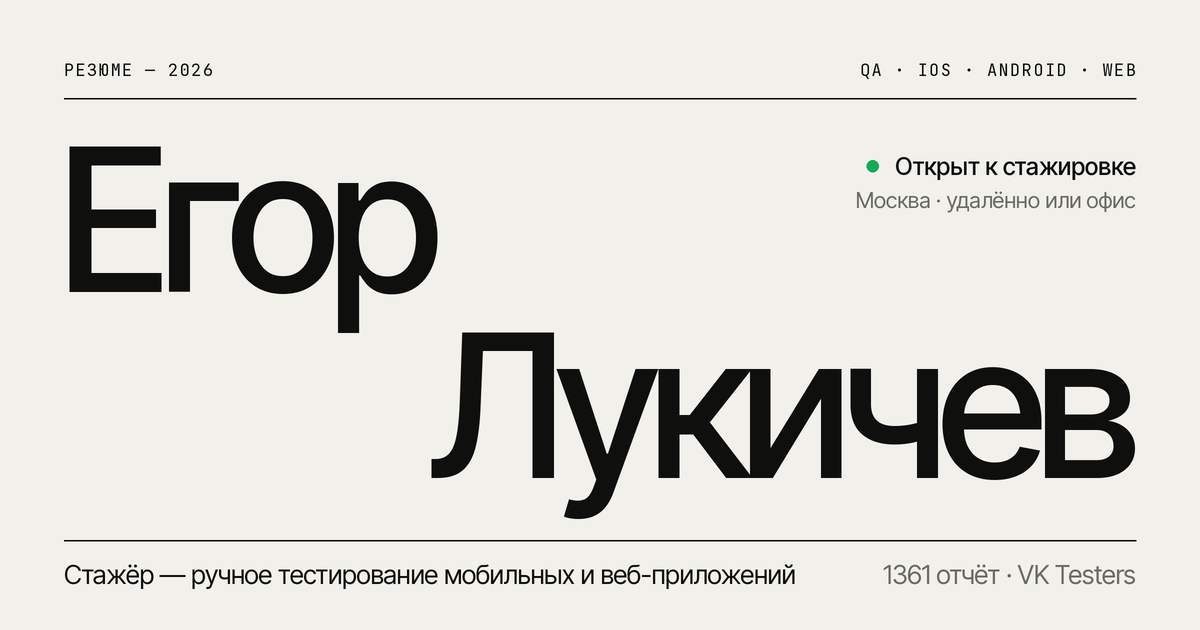
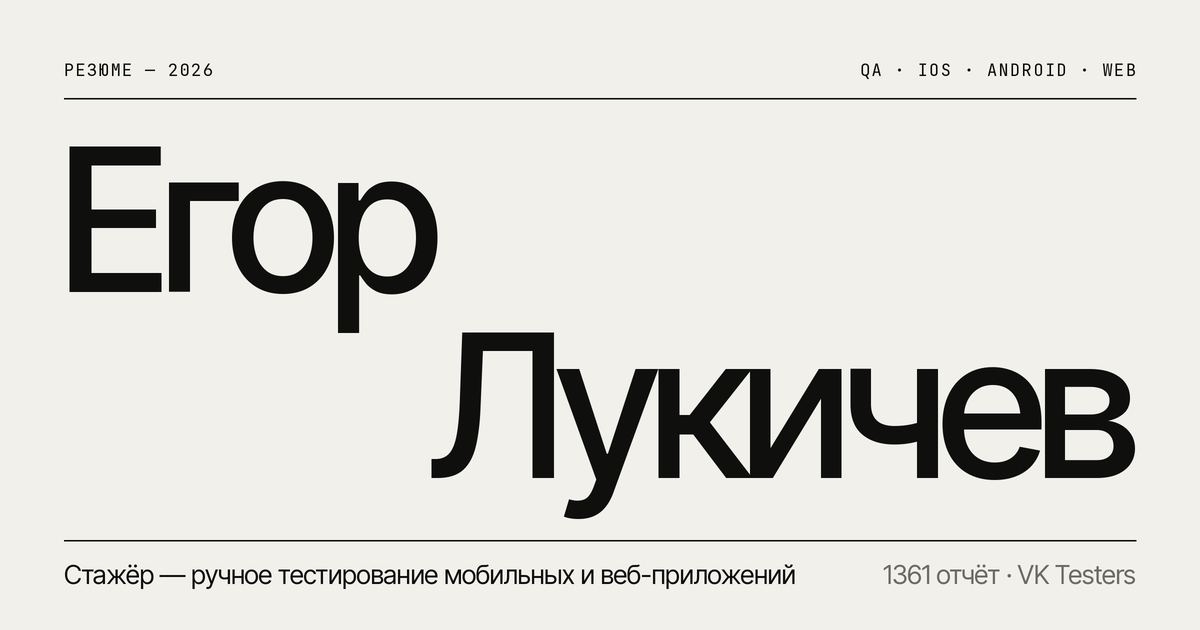
Ч/б-версия: чёрный акцент вместо синего, без блока «Открыт к стажировке»
Синий акцент заменён на чёрный на всём сайте, в игре, иконках и превью.
Блок статуса на первом экране убран, город перенесён в контакты.

Changed region(s): [[0.7092, 0.2413, 0.9558, 0.3317]]

diff --git a/assets/css/style.css b/assets/css/style.css
@@ -23,13 +23,13 @@
   --ink: #0f0f0e;
   --muted: #6b6b66;
   --line: rgba(15, 15, 14, 0.14);
-  --accent: #2b44ff;
+  --accent: #0f0f0e; /* ч/б: акцент — чёрный */
 
   --dark: #0f0f0e;
   --dark-text: #f1f0eb;
   --dark-muted: #8f8e88;
   --dark-line: rgba(241, 240, 235, 0.16);
-  --dark-accent: #6a7bff;
+  --dark-accent: #f1f0eb;
 
   --font: "Inter Tight", "Helvetica Neue", Helvetica, Arial, system-ui, sans-serif;
   --mono: "JetBrains Mono", ui-monospace, "SF Mono", Menlo, Consolas, monospace;
@@ -126,7 +126,7 @@ button { font: inherit; color: inherit; }
 .btn:hover { background: var(--ink); color: var(--bg); }
 
 .btn--primary { background: var(--ink); color: var(--bg); }
-.btn--primary:hover { background: var(--accent); border-color: var(--accent); color: #fff; }
+.btn--primary:hover { background: transparent; color: var(--ink); }
 
 .btn--small { height: 38px; padding: 0 16px; font-size: 14px; }
 
@@ -232,32 +232,6 @@ button { font: inherit; color: inherit; }
   to { transform: none; }
 }
 
-.hero__status {
-  position: absolute;
-  top: clamp(40px, 7vw, 120px);
-  right: 0;
-  display: flex;
-  flex-direction: column;
-  align-items: flex-end;
-  gap: 6px;
-  font-size: 15px;
-  text-align: right;
-}
-
-.status { display: inline-flex; align-items: center; gap: 10px; font-weight: 500; }
-.status__dot {
-  width: 8px;
-  height: 8px;
-  border-radius: 50%;
-  background: #17a957;
-  animation: pulse 2.2s infinite;
-}
-@keyframes pulse {
-  0% { box-shadow: 0 0 0 0 rgba(23, 169, 87, 0.45); }
-  70% { box-shadow: 0 0 0 10px rgba(23, 169, 87, 0); }
-  100% { box-shadow: 0 0 0 0 rgba(23, 169, 87, 0); }
-}
-
 .hero__bottom {
   display: grid;
   grid-template-columns: minmax(0, 5fr) minmax(0, 4fr) auto;
@@ -284,12 +258,6 @@ button { font: inherit; color: inherit; }
 
 @media (max-width: 640px) {
   .hero__title { font-size: 22.5vw; }
-  .hero__status {
-    position: static;
-    align-items: flex-start;
-    margin-top: 28px;
-    text-align: left;
-  }
   .hero__bottom { grid-template-columns: 1fr; gap: 20px; }
   .hero__cta .btn { flex: 1 1 auto; }
 }
@@ -631,7 +599,7 @@ button { font: inherit; color: inherit; }
   background: var(--dark);
   color: var(--dark-text);
 }
-.contact ::selection { background: var(--dark-accent); color: #fff; }
+.contact ::selection { background: var(--dark-accent); color: var(--dark); }
 
 .contact__head {
   display: grid;
@@ -689,6 +657,7 @@ button { font: inherit; color: inherit; }
   transition: background-size 0.5s var(--ease), color 0.3s;
 }
 .contacts__value:hover { background-size: 100% 1px; color: #fff; }
+.contacts__text { font-size: clamp(20px, 2.2vw, 32px); letter-spacing: -0.025em; }
 .contacts__value::after { content: ""; position: absolute; inset: 0; }
 .contacts__row { position: relative; }
 .contacts__row:hover .contacts__action { color: var(--dark-accent); transform: translate(2px, -2px); }
@@ -717,7 +686,7 @@ button { font: inherit; color: inherit; }
   transition: color 0.3s, border-color 0.3s, background-color 0.3s;
 }
 .copy:hover { color: var(--dark-text); border-color: var(--dark-text); }
-.copy.is-done { color: #fff; border-color: var(--dark-accent); background: var(--dark-accent); }
+.copy.is-done { color: var(--dark); border-color: var(--dark-accent); background: var(--dark-accent); }
 
 @media (max-width: 760px) {
   .contact__head { grid-template-columns: auto 1fr; }
@@ -738,7 +707,7 @@ button { font: inherit; color: inherit; }
   font-size: 13px;
 }
 .footer a { color: var(--dark-text); transition: color 0.3s; }
-.footer a:hover { color: var(--dark-accent); }
+.footer a:hover { color: var(--dark-muted); }
 
 /* ---------- Reveal on scroll ---------- */
 
@@ -752,5 +721,4 @@ button { font: inherit; color: inherit; }
 
 @media (prefers-reduced-motion: reduce) {
   .js [data-reveal] { opacity: 1; transform: none; transition: none; }
-  .status__dot { animation: none; }
 }

diff --git a/index.html b/index.html
@@ -80,10 +80,6 @@
             <span class="hero__line"><span>Егор</span></span>
             <span class="hero__line hero__line--right"><span>Лукичев</span></span>
           </h1>
-          <div class="hero__status" data-reveal style="--d:6">
-            <span class="status"><i class="status__dot" aria-hidden="true"></i>Открыт к&nbsp;стажировке</span>
-            <span class="muted">Москва · удалённо или офис</span>
-          </div>
         </div>
 
         <div class="hero__bottom">
@@ -342,6 +338,11 @@
             <span class="contacts__label">Почта</span>
             <a class="contacts__value" href="mailto:lkmszd@vk.com">lkmszd@vk.com</a>
             <button class="copy" type="button" data-copy="lkmszd@vk.com">Скопировать</button>
+          </li>
+          <li class="contacts__row" data-reveal>
+            <span class="contacts__label">Город</span>
+            <span class="contacts__text">Москва · удалённо или&nbsp;офис</span>
+            <span aria-hidden="true"></span>
           </li>
           <li class="contacts__row" data-reveal>
             <span class="contacts__label">VK Testers</span>

diff --git a/assets/js/game.js b/assets/js/game.js
@@ -37,7 +37,7 @@
     ink: [15, 15, 14],
     muted: [201, 200, 193],
     grid: 'rgba(15, 15, 14, 0.06)',
-    accent: '#2b44ff',
+    accent: '#0f0f0e',
     paper: '#f1f0eb',
   };
   const rgb = (a, b, k) => `rgb(${a.map((v, i) => Math.round(v + (b[i] - v) * k)).join(',')})`;
